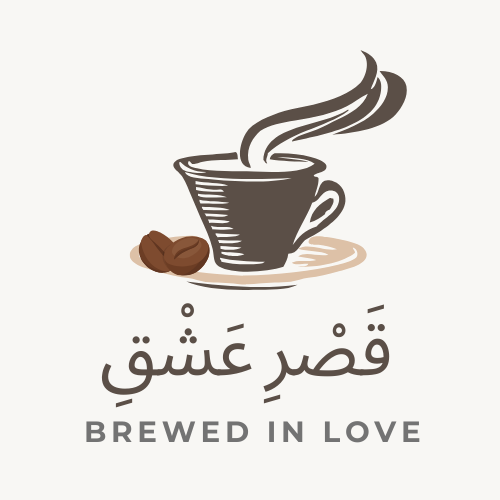
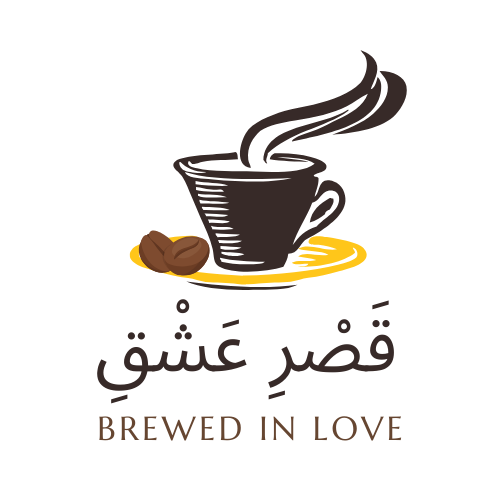
hero sec updated

diff --git a/index.html b/index.html
@@ -12,13 +12,13 @@
         <div class="nav-center">
             <!-- nav header -->
             <div class="nav-header navbar-classic">
-                <a href="#"><img class="logo" src="./pics/WHITE.png" alt="logo" width="110" height="110"></a>
+                <a href="#"><img class="logo" src="./pics/check.png" alt="logo" width="110" height="110"></a>
                 <button class="nav-toggle"><i class="fa-solid fa-bars"></i></button>  <!--dropdown menu triggered with JS logic-->
             </div>
 
             <div class="menu">
                 <div class="nav-header dropped-nav">
-                    <img src="./pics/black.png" alt="" width="130" height="120">
+                    <img src="./pics/golden.png" alt="" width="130" height="120">
                     <button class="nav-toggle close"><i class="fa-solid fa-x"></i></button>
                 </div>
                 <ul class="links">
@@ -59,51 +59,71 @@
     <section class="hero">
         <button class="discover-btn">Shop here</button>
     </section>
-    
-
-    <!-- <section> 
-        <div class="empty">
-            
+    <!-- About Us -->
+    <section class="about flex">
+        <div class="info-us">
+            <h2>About Us</h2>
+            <p>Welcome to Qasr-e-Ishq, where every cup tells a story of love, tradition, and authentic flavors. Nestled in the heart of Lahore, our cafe is a haven for coffee enthusiasts, tea lovers, and seekers of delightful experiences.</p>
+            <a href="#" class="read-more">Read More</a>
         </div>
-    </section> -->
-    
-    <!-- <section class="main-content">
-        <div class="content">
-            <div class="coffee">
-                <a href="#" class="mocha">
-                    <img src="./pics/hero.jpg" alt="coffee" width="300" height="270">
-                    <div class="text-overlay">
-                        Coffee
-                    </div>
-                </a>
-            </div>
-            
-            <div class="tea">
-                <a href="#" class="mocha chai">
-                    <img src="./pics/hero.jpg" alt="chai" width="300" height="270">
-                    <div class="text-overlay">
-                        Chai
-                    </div>
-                </a>
-            </div>
-
-            <div class="about">
-                <div class="about-info">
-                    <h1>About Us</h1>
-                    <p>Lorem ipsum dolor sit amet consectetur adipisicing elit. Cupiditate, facilis nobis pariatur debitis omnis ad enim labore hic consequatur! Sequi ex accusamus suscipit facere illum.</p>
-                    <a class="read-more" href="#">Read More</a>
-                </div>
-            </div>
+    </section>
+    <!-- Heritage -->
+    <section class="heritage flex">
+        <div class=" story-heri">
+            <h1>Our Heritage</h1>
+            <a href="#" class="read-more">Read More</a>
         </div>
-    </section> -->
+    </section>
+    <!-- Cafe Menu -->
+    <section class="menuu-link flex">
+        <div class="menubg">
+            <button class="mn-btn">Cafe Menu</button> 
+        </div>
+    </section>
+    <!-- Coffee Sourcing -->
+    <section class="coffee-sourcing flex">
+        <div class="beans">
+            <button class="mn-btn">Coffee Sourcing</button> 
+        </div>
+    </section>
 
+    <!-- Query -->
+    <section class="heritage flex">
+        <div class=" history">
+            <a href="#">
+                <h3>Query?</h3>
+                <h1>Write to Us</h1>
+            </a>
+        </div>
+    </section>
 </main>
-    
-    
-    
 
+<!-- footer -->
     <footer>
-        
+        <div class="footer">
+            <!-- footer logo -->
+            <div class="foot-lg">
+                <img src="./pics/golden.png" alt="" width="130" height="120">
+            </div>
+            <!-- footer links -->
+            <div class="foot-ln">
+                <a href="#">Home</a>
+                <a href="#">About Us</a>
+                <a href="#">Shop</a>
+                <a href="#">FAQ</a>
+                <a href="#">Contact us</a>
+            </div>
+            <!-- social links -->
+            <div class="social-icons ft-si">
+                <a href="#"><i class="fa-brands fa-facebook"></i></a>
+                <a href="#"><i class="fa-brands fa-instagram"></i></a>
+                <a href="#"><i class="fa-brands fa-square-x-twitter"></i></a>
+            </div>
+            <!-- div border bottom -->
+            <div class="bt-border">
+
+            </div>
+        </div>
     </footer>
 
     <script src="./app.js"></script>

diff --git a/styless.css b/styless.css
@@ -39,7 +39,7 @@ body{
     font-size: 16px;
     line-height: 1.5;
     /* fix thiss */
-    background-color: beige;
+    background-color: rgb(255, 255, 255);
 }
 
 
@@ -55,7 +55,7 @@ body{
     }
 
 .navbar-classic{
-    background-color: #f8f7f4;
+    background-color: #ffffff;
 }    
 
 
@@ -216,15 +216,150 @@ body{
     padding: 0;
     margin: 0;
 }
+/* About Us */
+.flex{
+    display: flex;
+    justify-content: center;
+    align-items: center;
+}
+.info-us{
+    margin-top: 2rem;
+    width: 80vw;
+    height: 25rem;
+    background-color:rgb(219, 187, 127);
+    position: relative;
+}
+.read-more{
+    position: absolute;
+    bottom: 2rem;
+    color: red;
+}
 
-.check{
-    display: none;
+/* heritage */
+.story-heri{
+    margin-top: 2rem;
+    margin-bottom: 0rem;
+    width: 80vw;
+    height: 10rem;
+    background-color:rgb(219, 187, 127);
+    position: relative;
+    display: flex;
+    justify-content: center;
+    align-items: center;
+}
+
+.history h1{
+    text-transform: uppercase;
+    font-size: 2rem;
+    color: var(--color-sealBrown);
+}
+
+/* Cafe Menu */
+.menubg{
+    margin-top: 2rem;
+    width: 80vw;
+    height: 10rem;
+    position: relative;
+    background-image: url('./pics/hero4.jpg'); /* Set your image path */
+    background-size: cover;
+}
+.mn-btn {
+    position: absolute;
+    bottom: 5.2rem; /* Adjust this value to fine-tune the button's position */
+    left: 50%; /* Positions the button horizontally at the center */
+    transform: translateX(-50%); /* Centers the button horizontally */
+    padding: 10px 200px;
+    background-color: transparent; /* Button background color */
+    letter-spacing: 3px;
+    color: var(--color-xanthous);
+    border: none; /* Button border */
+    font-family: var(--font-marcellus);
+    font-size: 1.3rem;
+    cursor: pointer;
+    text-transform: uppercase;
+    z-index: 10;
+    white-space: nowrap;
+    overflow: hidden;
+    text-align: center;
+  }
+
+  /* Hover effect for the button */
+  .mn-btn:hover {
+    color: #ffffff; /* Change text color on hover */
+    font-size: 2rem;
+    background-color: transparent;
+  }
+
+  /* coffee sourcing */
+.beans{
+    margin-top: 2rem;
+    width: 80vw;
+    height: 20rem;
+    position: relative;
+    background-image: url('./pics/hero2.jpg'); /* Set your image path */
+    background-size: cover;
+
 }
 
 
+/* query */
+.history{
+        margin: 2rem 0rem;
+        margin-bottom: 6rem;
+        width: 80vw;
+        height: 10rem;
+        background-color:rgb(219, 187, 127);
+        position: relative;
+        display: flex;
+        justify-content: center;
+        align-items: center;
+       
+}
+
+/* footer */
+footer{
+   
+    display: flex;
+    justify-content:center;
+    align-items: center;
+    flex-direction: column;
+    background-color: var(--color-eerie-black);
+}
+.footer{
+    width: 100vw; height: 300px;
+}
+
+.foot-lg{
+    display: flex;
+    justify-content: center;
+    align-items:  center;
+}
+
+.bt-border{
+    margin: 0rem 2rem;
+    border-bottom: 1px solid var(--color-coffee);
+}
+.foot-ln{
+    display: flex;
+    justify-content: center;
+    align-items: center;
+}
+.foot-ln a{
+    padding: 0 10px;
+}
+.ft-si{
+    display: flex;
+    justify-content: center;
+    align-items:  center;
+    margin-bottom: 2rem;
+}
+
+.ft-si a{
+    padding:  0 10px;
+}
 
 
- 
-  
-
-
+/* check class to remove everything except dropdown nav */
+.check{
+    display: none;
+}

diff --git a/app.js b/app.js
@@ -3,6 +3,7 @@ const navDrop = document.querySelector('.nav-header');
 const dropMenu = document.querySelector('.menu')
 const dropBtn = document.querySelector('.fa-x');
 const main = document.querySelector('main');
+const footer = document.querySelector('footer');
 const hero = document.querySelector('.hero');
 
 // const images = ['./pics/hero.jpg'];
@@ -24,12 +25,14 @@ const hero = document.querySelector('.hero');
 navBtn.addEventListener('click', function(){
     navDrop.classList.add('nav-off');
     main.classList.add('check');
+    footer.classList.add('check');
     dropMenu.classList.add('drop-down');
 
 });
 dropBtn.addEventListener('click', function(){
     dropMenu.classList.remove('drop-down');
     main.classList.remove('check');
+    footer.classList.remove('check');
     navDrop.classList.remove('nav-off');
 })
 
